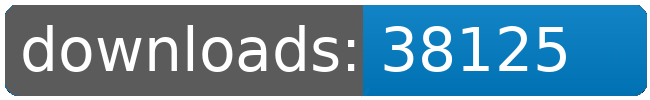
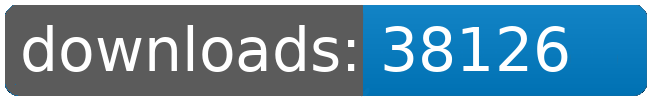
dl log written

Changed region(s): [[0.8, 0.42, 0.8923, 0.72], [0.8308, 0.24, 0.8923, 0.36]]

diff --git a/README.md b/README.md
@@ -21,8 +21,8 @@
 		<td>4544</td>
 		<td>4568</td>
 		<td>4598</td>
-		<td>4617</td>
-		<td>+ 19</td>
+		<td>4618</td>
+		<td>+ 20</td>
 	</tr>
 	<tr>
 		<td>Factory.Outlets</td>
@@ -109,8 +109,8 @@
 		<td></td>
 		<td></td>
 		<td></td>
-		<td>38125</td>
-		<td>120</td>
+		<td>38126</td>
+		<td>121</td>
 	</tr>
 </table>
 </sub></sup>
@@ -168,8 +168,8 @@
 		<td>4544</td>
 		<td>4568</td>
 		<td>4598</td>
-		<td>4617</td>
-		<td>+ 19</td>
+		<td>4618</td>
+		<td>+ 20</td>
 	</tr>
 	<tr>
 		<td>Solar.Sails</td>
@@ -223,8 +223,8 @@
 		<td></td>
 		<td></td>
 		<td></td>
-		<td>38125</td>
-		<td>120</td>
+		<td>38126</td>
+		<td>121</td>
 	</tr>
 </table>
 </sub></sup>
